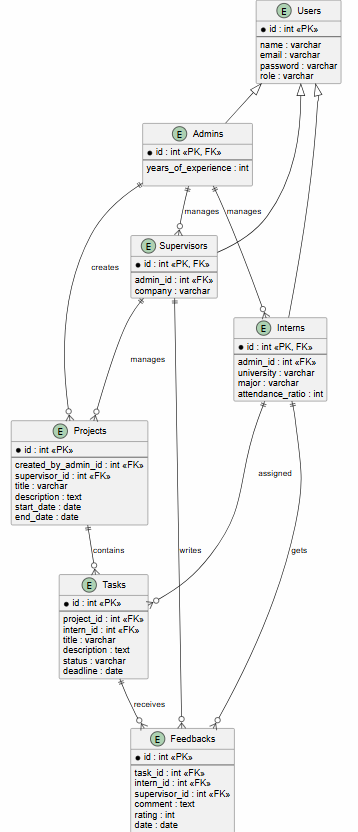
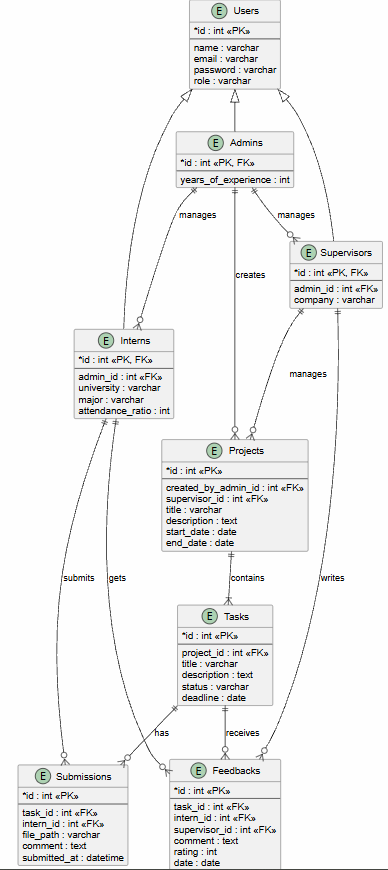
edit prisma schema and ERD

diff --git a/middleware/role.middleware.js b/middleware/role.middleware.js
@@ -1,0 +1,28 @@
+const roleMiddleware = (...allowedRoles)=>{
+
+
+    return (req,res,next)=>{
+
+
+        if(!allowedRoles.includes(req.user.role)){
+
+
+            return res.status(403).json({
+
+                message:"Access denied"
+
+            });
+
+        }
+
+
+        next();
+
+
+    };
+
+
+};
+
+
+module.exports = roleMiddleware;

diff --git a/validation/user.validation.js b/validation/user.validation.js
@@ -9,7 +9,7 @@ const userSchema = z.object({
 
     email: z.string()
         .email("Invalid email"),
-
+// اعدل ع محتوى الباسووود ل يكون أأمن 
     password: z.string()
     .length(8, "Password must be exactly 8 characters"),
 

diff --git a/validation/task.validation.js b/validation/task.validation.js
@@ -17,7 +17,7 @@ const taskSchema = z.object({
     description: z.string()
         .min(10, "Description must be at least 10 characters"),
 
-
+// cancel , testing 
     status: z.enum([
         "TODO",
         "IN_PROGRESS",

diff --git a/routes/auth.routes.js b/routes/auth.routes.js
@@ -247,7 +247,7 @@ router.post("/login", async(req,res)=>{
 });
 
 // CURRENT USER
-
+// لازم اتاكد من التوكين انه لسا موجود 
 router.get("/me", authMiddleware, async(req, res)=>{
 
     try {
